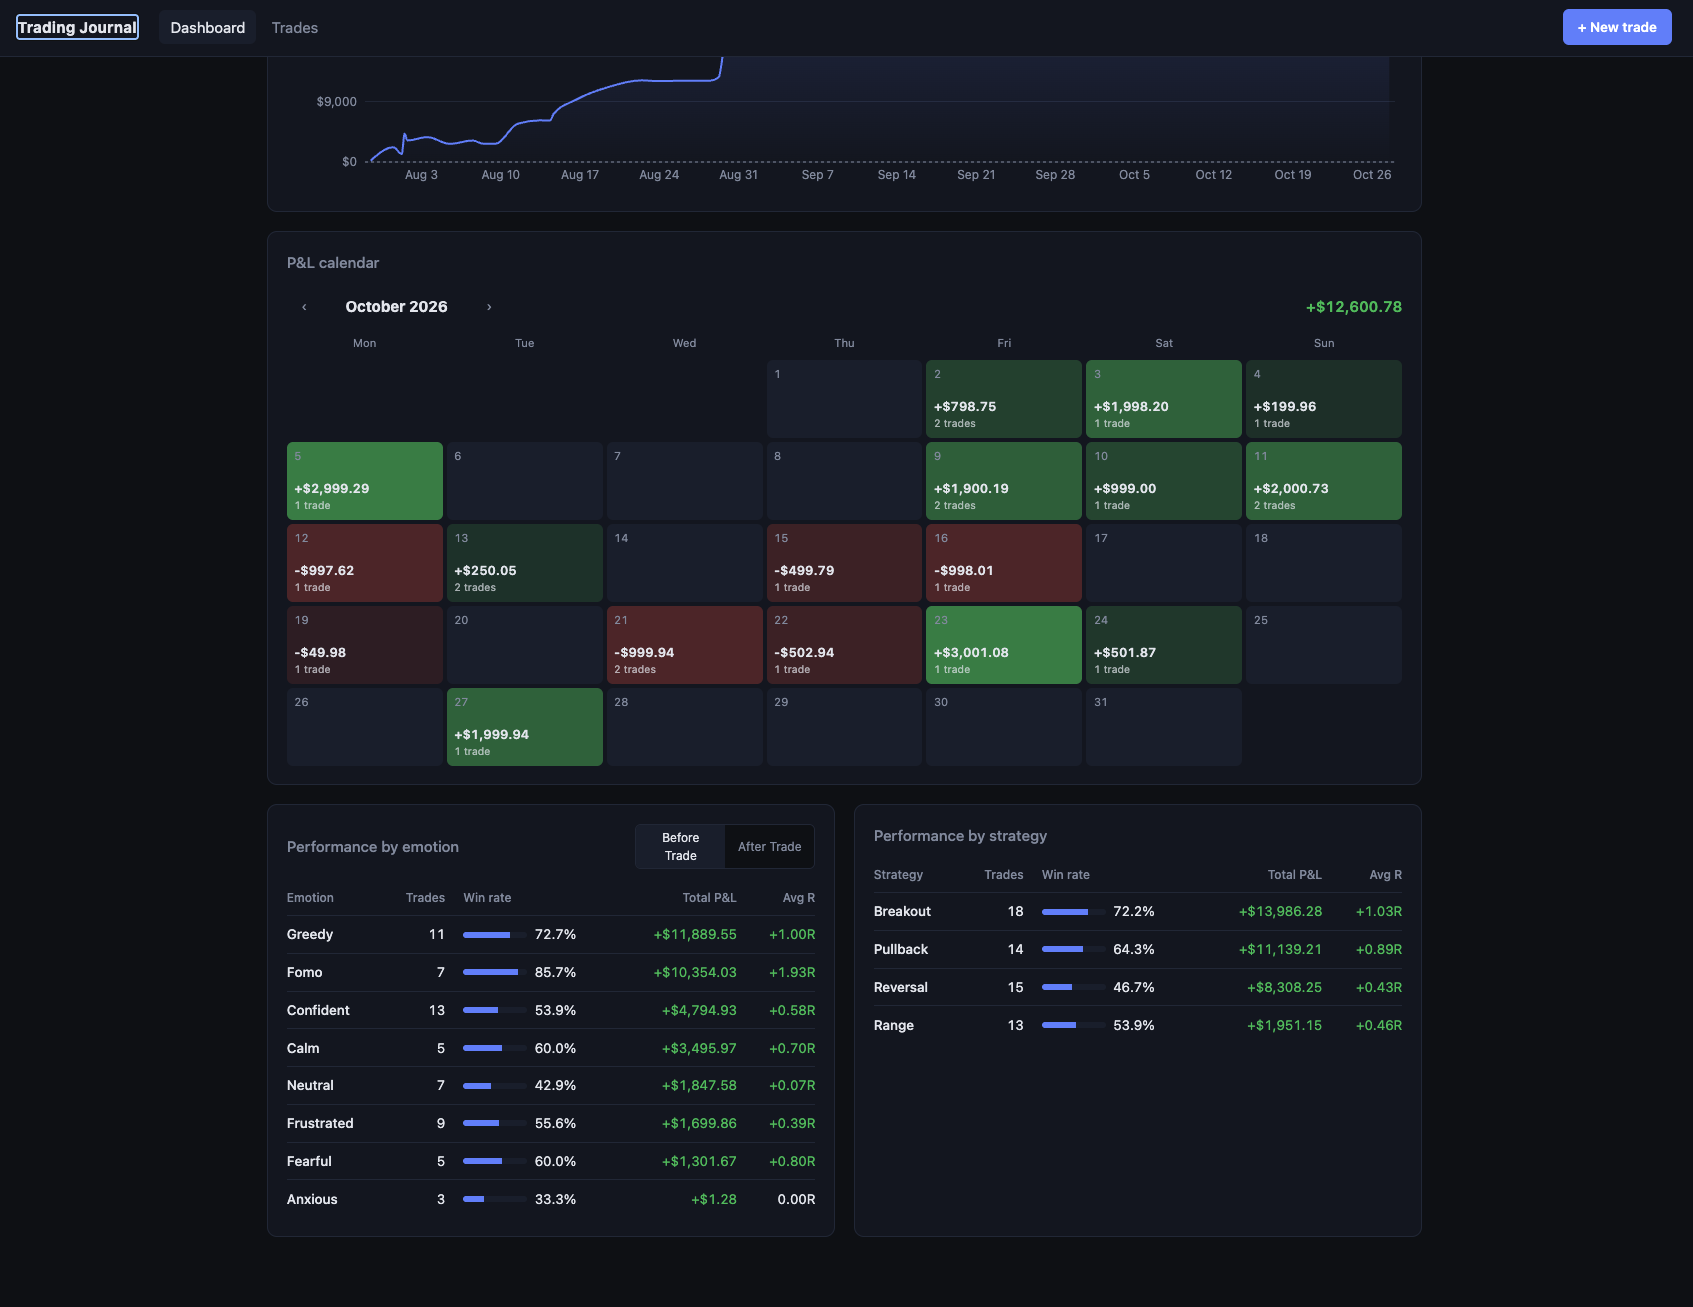
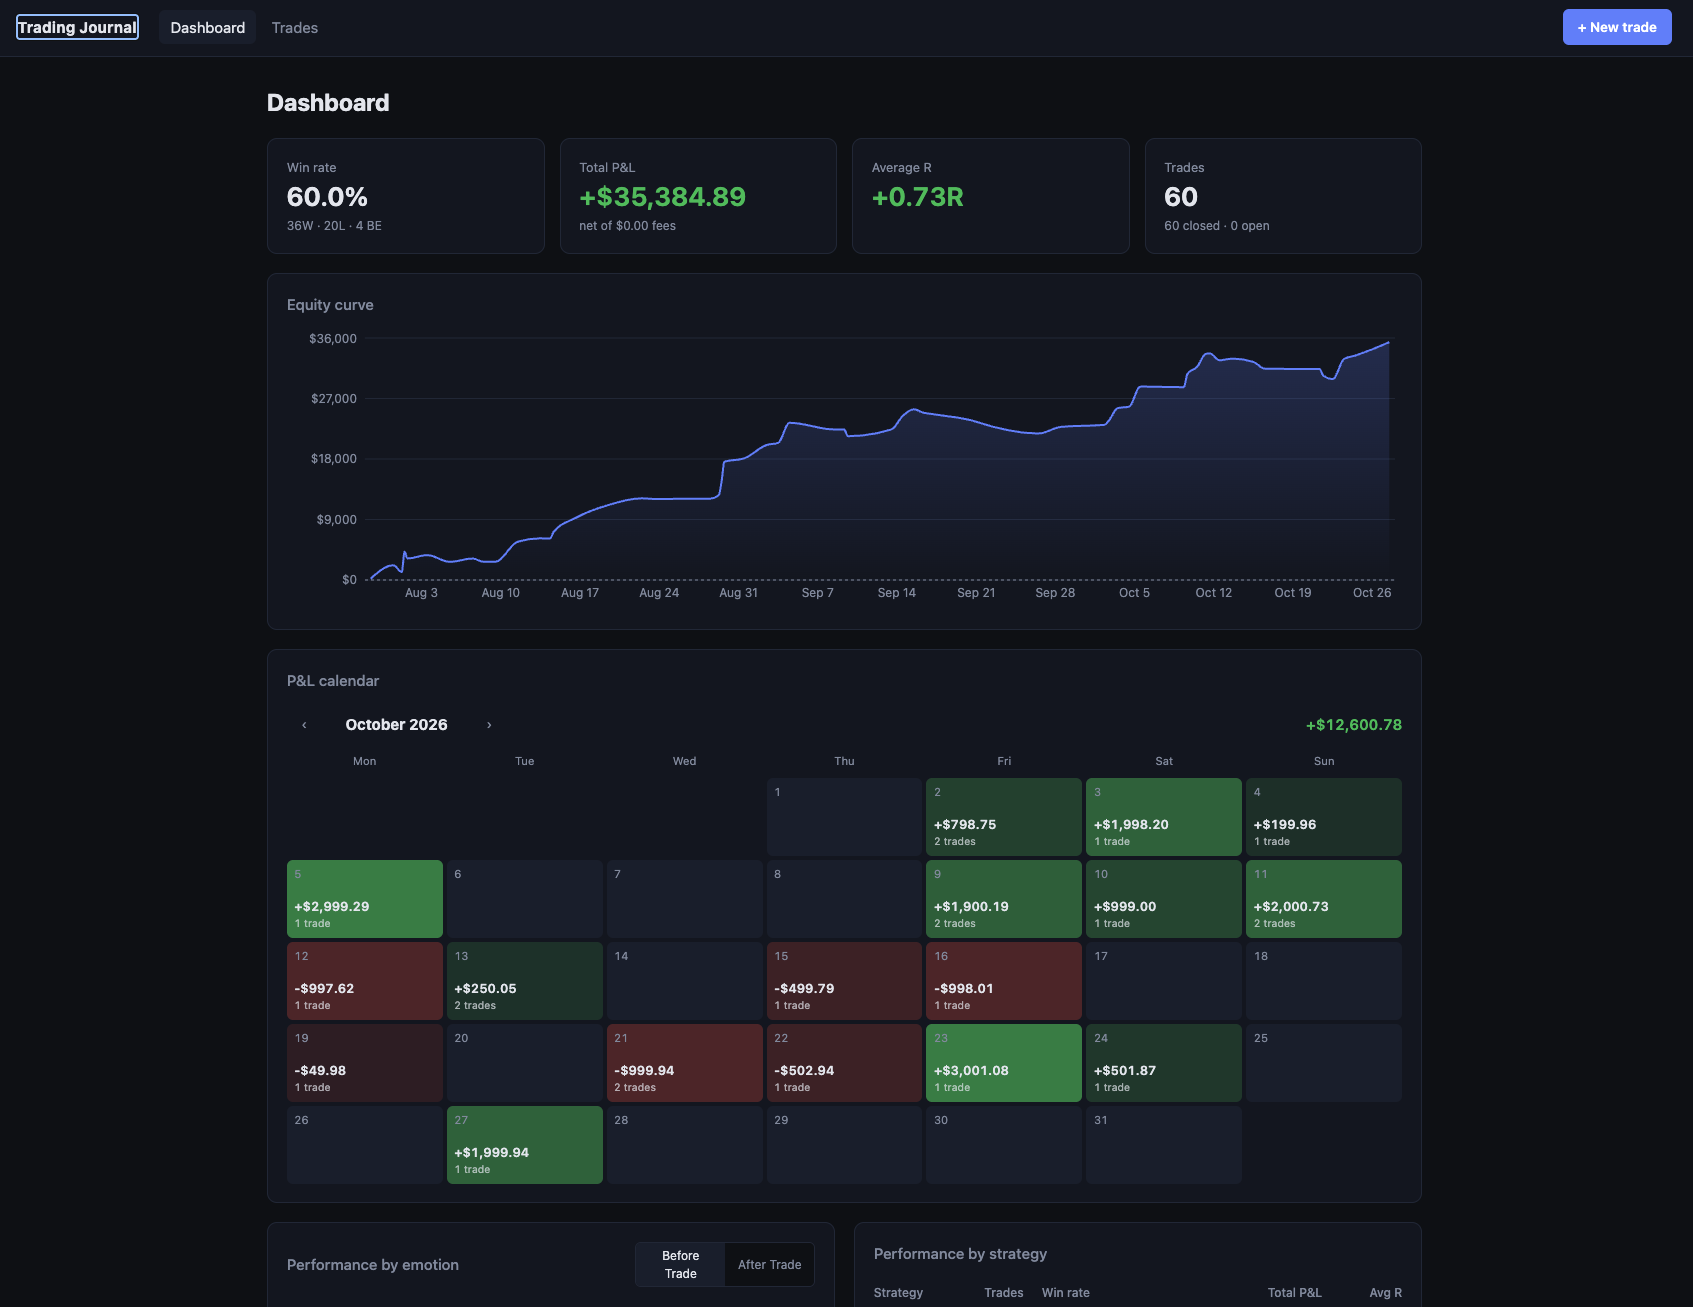
Show top of dashboard in README, add performance analytics section
dashboard.png is now the top of the dashboard (stats, equity curve,
calendar). The scrolled view with the calendar and breakdown tables is
kept as analytics.png in a new "Performance analytics" section.

diff --git a/README.md b/README.md
@@ -25,6 +25,14 @@ It is a review tool, not a trading tool: there are no signals, no broker connect
 |---|---|
 | ![Trade list](docs/screenshots/trades.png) | ![New trade form](docs/screenshots/form.png) |
 
+## Performance analytics
+
+Below the equity curve, the P&L calendar shows each day's result at a glance, and the breakdown tables group closed trades by strategy and by emotion. Each row shows the number of trades, win rate, total net P&L and average R, sorted from best to worst total P&L. Switch the emotion table between *before* and *after* the trade to compare the state of mind you entered with against how you felt about the result. Emotions and strategies are grouped without regard to case, and untagged trades get their own row.
+
+This is where patterns show up, such as one setup carrying most of your profit, or trades taken while anxious or chasing (FOMO) losing more often.
+
+![P&L calendar and performance by emotion and strategy](docs/screenshots/analytics.png)
+
 ## Tech stack
 
 | Layer | Technology |
